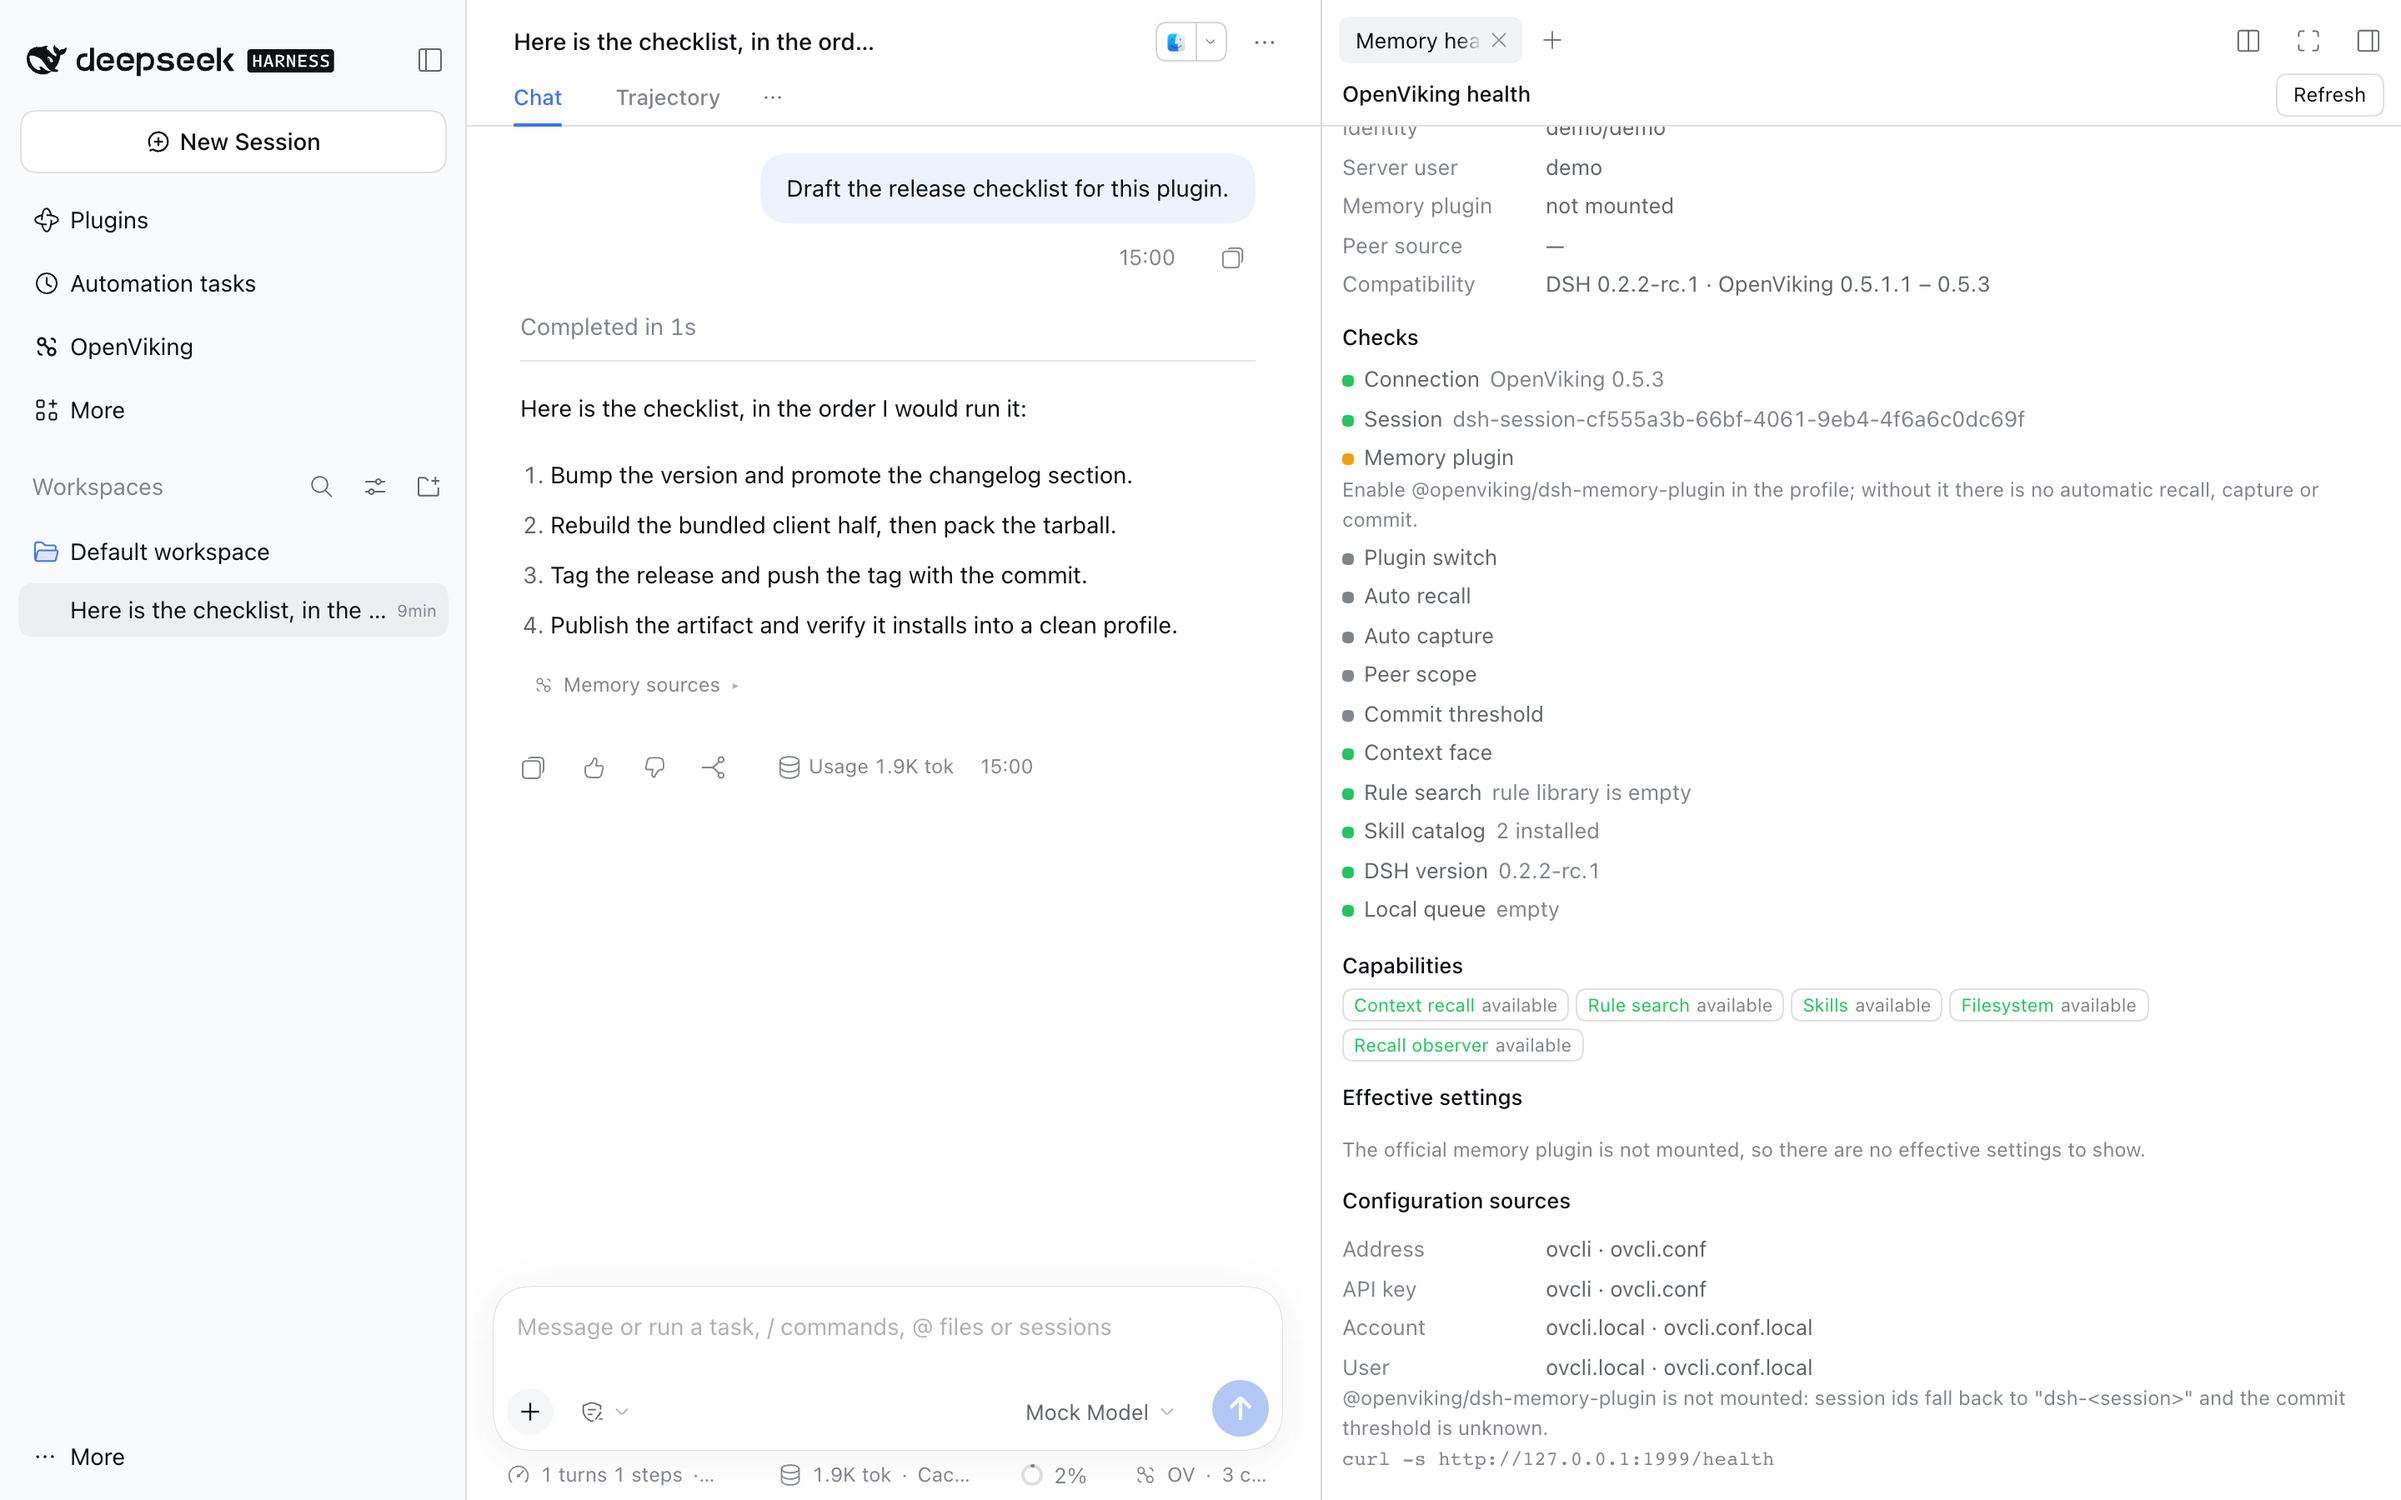
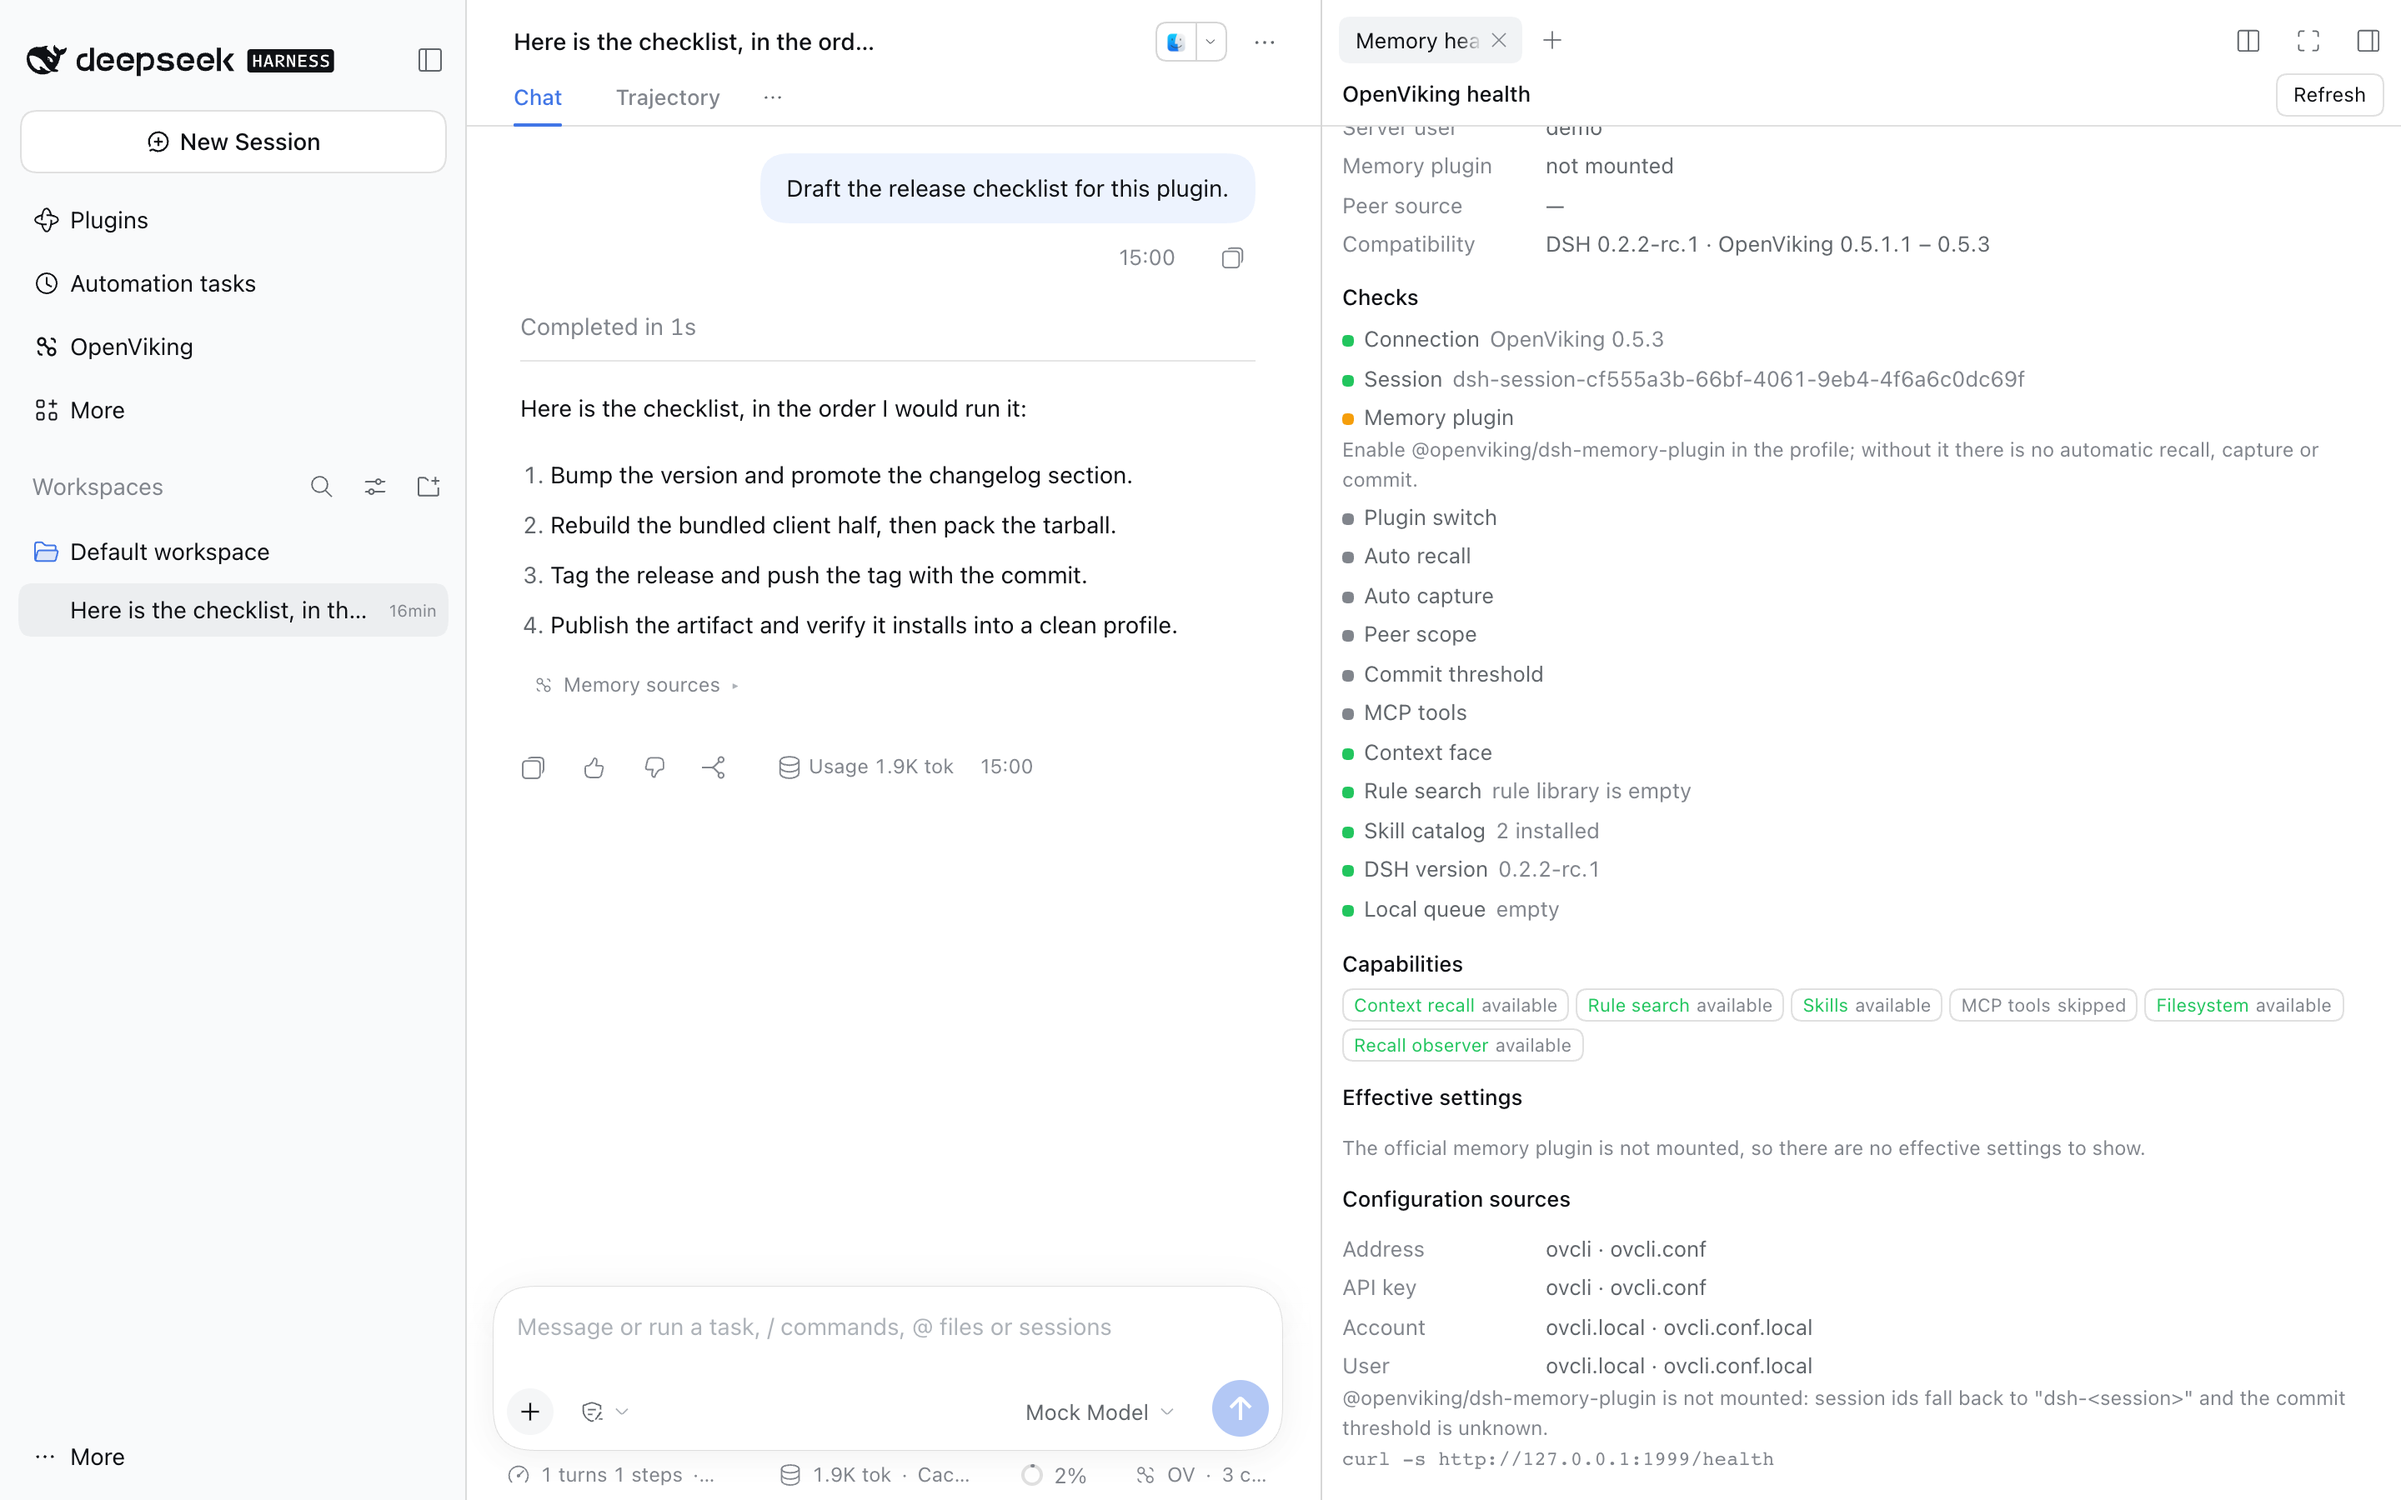
show OpenViking MCP tool visibility in the Doctor
The Doctor now answers the roadmap's other half of 'why is there no tool': it lists the model-visible tool names through the host registry, counts the mcp__openviking__ ones, and reports whether they are present, absent, or unreachable. The check is skipped when the memory plugin is not mounted, so the diagnosis points at the missing plugin instead of an empty tool list. The Doctor and health screenshots are refreshed for the added check and capability chip.

diff --git a/src/client/locale.ts b/src/client/locale.ts
@@ -181,6 +181,7 @@ const zh: Record<string, string> = {
   'doctor.check.capture': '自动捕获',
   'doctor.check.peerScope': 'peer 范围',
   'doctor.check.commitThreshold': '提交阈值',
+  'doctor.check.mcpTools': 'MCP 工具',
   'doctor.check.contextFace': '上下文接口',
   'doctor.check.rules': '规则检索',
   'doctor.check.skills': '技能目录',
@@ -194,12 +195,14 @@ const zh: Record<string, string> = {
   'doctor.hint.enableCapture': '自动捕获已关闭；会话消息不会写入 OpenViking。',
   'doctor.hint.peerScope': '服务端曾拒绝 peer 范围并降级为全局检索；检查服务端版本与 X-OpenViking-Actor-Peer。',
   'doctor.hint.thresholdUnknown': '读不到提交阈值；记忆插件可能未挂载，或会话尚未初始化。',
+  'doctor.hint.mcpTools': '记忆插件的 MCP 工具没有出现在模型可见的工具列表里；检查插件是否挂载、mcpEnabled 是否开启，以及服务端是否可达。',
   'doctor.hint.contextLegacy': '服务端没有上下文接口，本插件退回逐目标检索；这是旧服务端的正常降级。',
   'doctor.hint.contextFace': '上下文接口探测失败。',
   'doctor.hint.ruleSearch': '规则检索不可用；检查服务端版本与 /api/v1/rules/search。',
   'doctor.hint.skillsFailed': '技能目录读取失败；检查服务端 /api/v1/skills。',
   'doctor.hint.dshVersion': '当前 DSH 版本不在本插件声明并验证过的区间内。',
   'doctor.hint.pendingQueue': '本地队列有未发送的写入，或队列目录不可读；检查 OpenViking 连接。',
+  'doctor.cap.mcpTools': 'MCP 工具',
   'doctor.cap.contextFace': '上下文召回',
   'doctor.cap.ruleSearch': '规则检索',
   'doctor.cap.skills': '技能',
@@ -518,6 +521,7 @@ const en: Record<string, string> = {
   'doctor.check.capture': 'Auto capture',
   'doctor.check.peerScope': 'Peer scope',
   'doctor.check.commitThreshold': 'Commit threshold',
+  'doctor.check.mcpTools': 'MCP tools',
   'doctor.check.contextFace': 'Context face',
   'doctor.check.rules': 'Rule search',
   'doctor.check.skills': 'Skill catalog',
@@ -531,12 +535,14 @@ const en: Record<string, string> = {
   'doctor.hint.enableCapture': 'Automatic capture is off; session messages are not written to OpenViking.',
   'doctor.hint.peerScope': 'The server rejected peer scope and recall was widened to the whole library; check the server version and X-OpenViking-Actor-Peer.',
   'doctor.hint.thresholdUnknown': 'The commit threshold is unknown; the memory plugin may not be mounted or the session is not initialized yet.',
+  'doctor.hint.mcpTools': 'The memory plugin’s MCP tools are not in the model-visible tool list; check that the plugin is mounted, mcpEnabled is on, and the server is reachable.',
   'doctor.hint.contextLegacy': 'This server has no context face, so the plugin falls back to per-target search; that is the normal legacy path.',
   'doctor.hint.contextFace': 'The context-face probe failed.',
   'doctor.hint.ruleSearch': 'Rule search is unavailable; check the server version and /api/v1/rules/search.',
   'doctor.hint.skillsFailed': 'The skill catalog could not be read; check /api/v1/skills.',
   'doctor.hint.dshVersion': 'This DSH version is outside the range this plugin declares and verifies.',
   'doctor.hint.pendingQueue': 'Writes are waiting in the local queue, or it cannot be read; check the OpenViking connection.',
+  'doctor.cap.mcpTools': 'MCP tools',
   'doctor.cap.contextFace': 'Context recall',
   'doctor.cap.ruleSearch': 'Rule search',
   'doctor.cap.skills': 'Skills',

diff --git a/src/host/doctor-service.ts b/src/host/doctor-service.ts
@@ -49,6 +49,11 @@ export interface DoctorOptions {
   origins: ConnectionFieldOrigin[]
   /** The running app's version, when the host exposes one. */
   dshVersion?: () => string | null
+  /**
+   * Every tool name visible to the model, or null when the tool registry is not
+   * reachable. Used to answer "are the OpenViking MCP tools visible?".
+   */
+  tools?: () => string[] | null
   /** Test seams. */
   now?: () => number
   localState?: LocalStateOptions
@@ -144,6 +149,8 @@ export class DoctorService {
     const contextFace = await this.contextCapability(probe, ovSessionId, request, warnings)
     const ruleSearch = await this.rulesCapability(probe, request)
     const fsStat = await this.fsCapability(probe, request)
+    const toolNames = this.options.tools?.() ?? null
+    const mcpTools = toolNames === null ? null : toolNames.filter((name) => name.startsWith('mcp__openviking__'))
 
     const sessionUri =
       sessionMeta?.result && ovSessionId !== null
@@ -204,6 +211,15 @@ export class DoctorService {
         : typeof config.commitTokenThreshold === 'number'
           ? check('commitThreshold', 'ok', `${Math.round(config.commitTokenThreshold)} tokens`, null)
           : check('commitThreshold', 'unknown', null, 'doctor.hint.thresholdUnknown'),
+    )
+    checks.push(
+      !mounted
+        ? check('mcpTools', 'skipped', null, null)
+        : mcpTools === null
+          ? check('mcpTools', 'unknown', null, 'doctor.hint.mcpTools')
+          : mcpTools.length > 0
+            ? check('mcpTools', 'ok', `${mcpTools.length} tools`, null)
+            : check('mcpTools', 'warn', 'none visible', 'doctor.hint.mcpTools'),
     )
     checks.push(capabilityCheck('contextFace', contextFace))
     checks.push(capabilityCheck('rules', ruleSearch))
@@ -275,6 +291,12 @@ export class DoctorService {
           state: skills.ok ? 'available' : 'unavailable',
           detail: skills.ok ? `${skills.result?.skills?.length ?? 0} skills` : skills.error ?? `HTTP ${skills.status}`,
           count: skills.ok ? skills.result?.skills?.length ?? 0 : null,
+        },
+        mcpTools: {
+          state: !mounted ? 'skipped' : mcpTools === null ? 'unknown' : mcpTools.length > 0 ? 'available' : 'unavailable',
+          detail: mcpTools === null ? null : `${mcpTools.length} exposed to the model`,
+          count: mcpTools?.length ?? 0,
+          names: (mcpTools ?? []).slice(0, 12),
         },
         fsStat,
         observer: {

diff --git a/src/host/index.ts b/src/host/index.ts
@@ -263,7 +263,31 @@ function start(ctx: Context, config: EnhanceConfigInput): void {
       : null
   }
 
-  const doctor = new DoctorService({ api, commit: service, connection, origins, dshVersion })
+  /** Tool names the model can see, when the tool registry exposes them. */
+  const listToolNames = (): string[] | null => {
+    try {
+      const tools = host.get('tools') as
+        | { schemas?: (scope?: unknown) => Array<{ name?: unknown }> }
+        | undefined
+      if (typeof tools?.schemas !== 'function') return null
+      const schemas = tools.schemas()
+      if (!Array.isArray(schemas)) return null
+      return schemas
+        .map((schema) => (typeof schema?.name === 'string' ? schema.name : ''))
+        .filter((name) => name.length > 0)
+    } catch {
+      return null
+    }
+  }
+
+  const doctor = new DoctorService({
+    api,
+    commit: service,
+    connection,
+    origins,
+    dshVersion,
+    tools: listToolNames,
+  })
 
   const configPayload = async (): Promise<ApiResult<EnhanceConfig>> => {
     const health = await api.health()

diff --git a/src/shared/protocol.ts b/src/shared/protocol.ts
@@ -543,6 +543,8 @@ export interface DoctorReport {
     contextFace: DoctorCapability
     ruleSearch: DoctorCapability
     skills: DoctorCapability & { count: number | null }
+    /** Whether the memory plugin's MCP tools are visible to the model. */
+    mcpTools: DoctorCapability & { count: number; names: string[] }
     fsStat: DoctorCapability
     observer: DoctorCapability & { avgLatencyMs: number | null; queries: number | null }
   }
